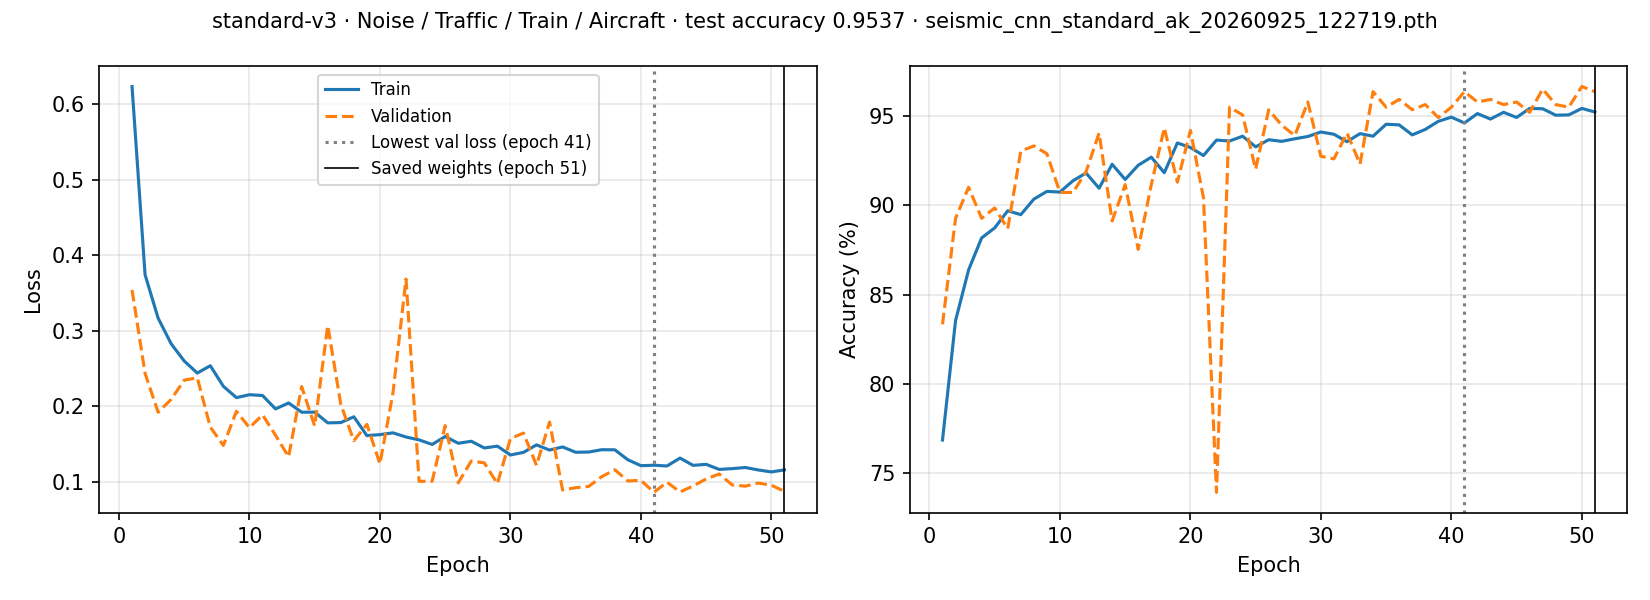
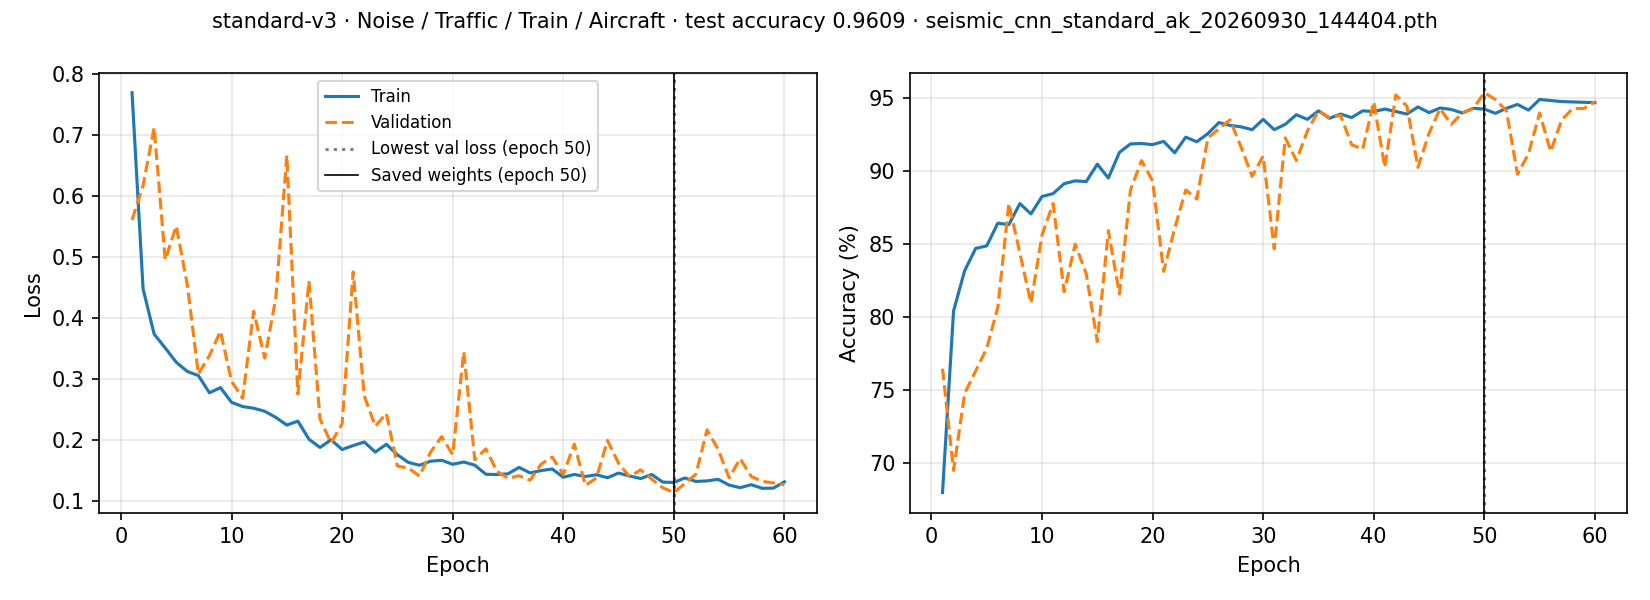
Training curves for the retrained models, marking the epoch actually saved
The curves of compact-v3 to v6 and standard-v2 to v5 are redrawn from the
2026-09-30 checkpoints. Checkpoints with provenance keep the best epoch by
the notebook's early-stopping rule (a validation loss at least 0.001 below
the best so far), so the "saved weights" line marks that epoch; older
checkpoints kept the last epoch.

diff --git a/scripts/plot_training_curves.py b/scripts/plot_training_curves.py
@@ -25,6 +25,7 @@ import torch
 
 REPO_ROOT = Path(__file__).resolve().parents[1]
 MODELS_DIR = REPO_ROOT / "models"
+MIN_DELTA = 0.001  # early_stopping_min_delta in the training notebook
 
 
 def first_conv_kernel_tfjs(weights_path):
@@ -48,17 +49,35 @@ def find_checkpoint(model_dir, checkpoints):
     return None, None
 
 
+def saved_epoch(ckpt):
+    """Epoch whose weights the checkpoint holds.
+
+    Checkpoints with provenance (2026-09-30 on) keep the best epoch by the
+    notebook's early-stopping rule: a validation loss at least MIN_DELTA below
+    the best so far. Older ones kept the last epoch (shallow-copy bug).
+    """
+    val = ckpt["history"]["val_loss"]
+    if "provenance" not in ckpt:
+        return len(val)
+    best, best_epoch = float("inf"), 1
+    for epoch, v in enumerate(val, start=1):
+        if best - v >= MIN_DELTA:
+            best, best_epoch = v, epoch
+    return best_epoch
+
+
 def plot_history(model_id, ckpt_path, ckpt, out_path):
     h = ckpt["history"]
     epochs = np.arange(1, len(h["train_loss"]) + 1)
     best = int(np.argmin(h["val_loss"])) + 1
+    saved = saved_epoch(ckpt)
 
     fig, (ax_loss, ax_acc) = plt.subplots(1, 2, figsize=(11, 4))
     for ax, key, label in [(ax_loss, "loss", "Loss"), (ax_acc, "acc", "Accuracy (%)")]:
         ax.plot(epochs, h[f"train_{key}"], color="tab:blue", label="Train")
         ax.plot(epochs, h[f"val_{key}"], color="tab:orange", linestyle="--", label="Validation")
         ax.axvline(best, color="gray", linestyle=":", label=f"Lowest val loss (epoch {best})")
-        ax.axvline(epochs[-1], color="black", linewidth=0.8, label=f"Saved weights (epoch {epochs[-1]})")
+        ax.axvline(saved, color="black", linewidth=0.8, label=f"Saved weights (epoch {saved})")
         ax.set_xlabel("Epoch")
         ax.set_ylabel(label)
         ax.grid(alpha=0.3)
